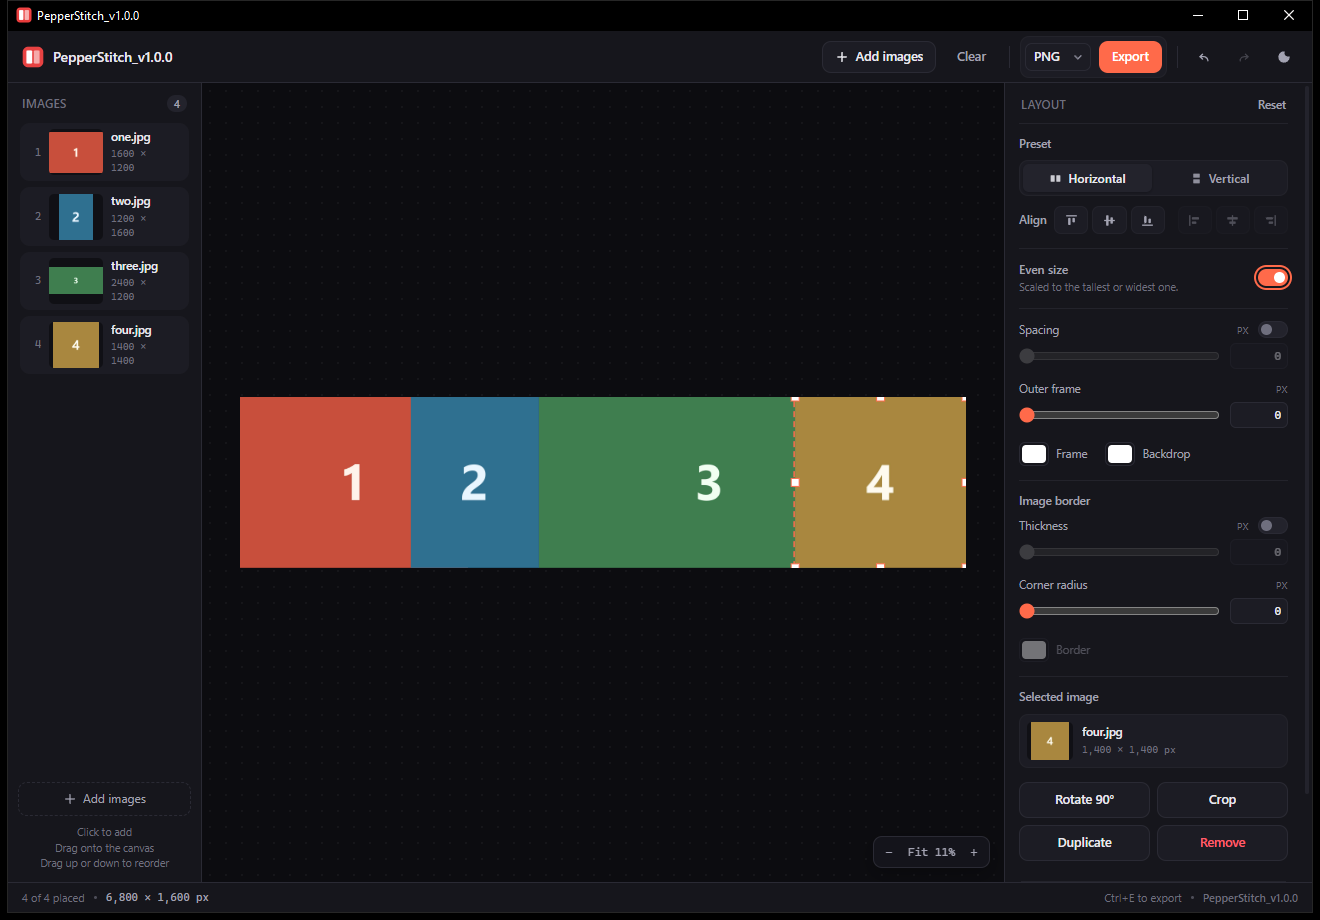
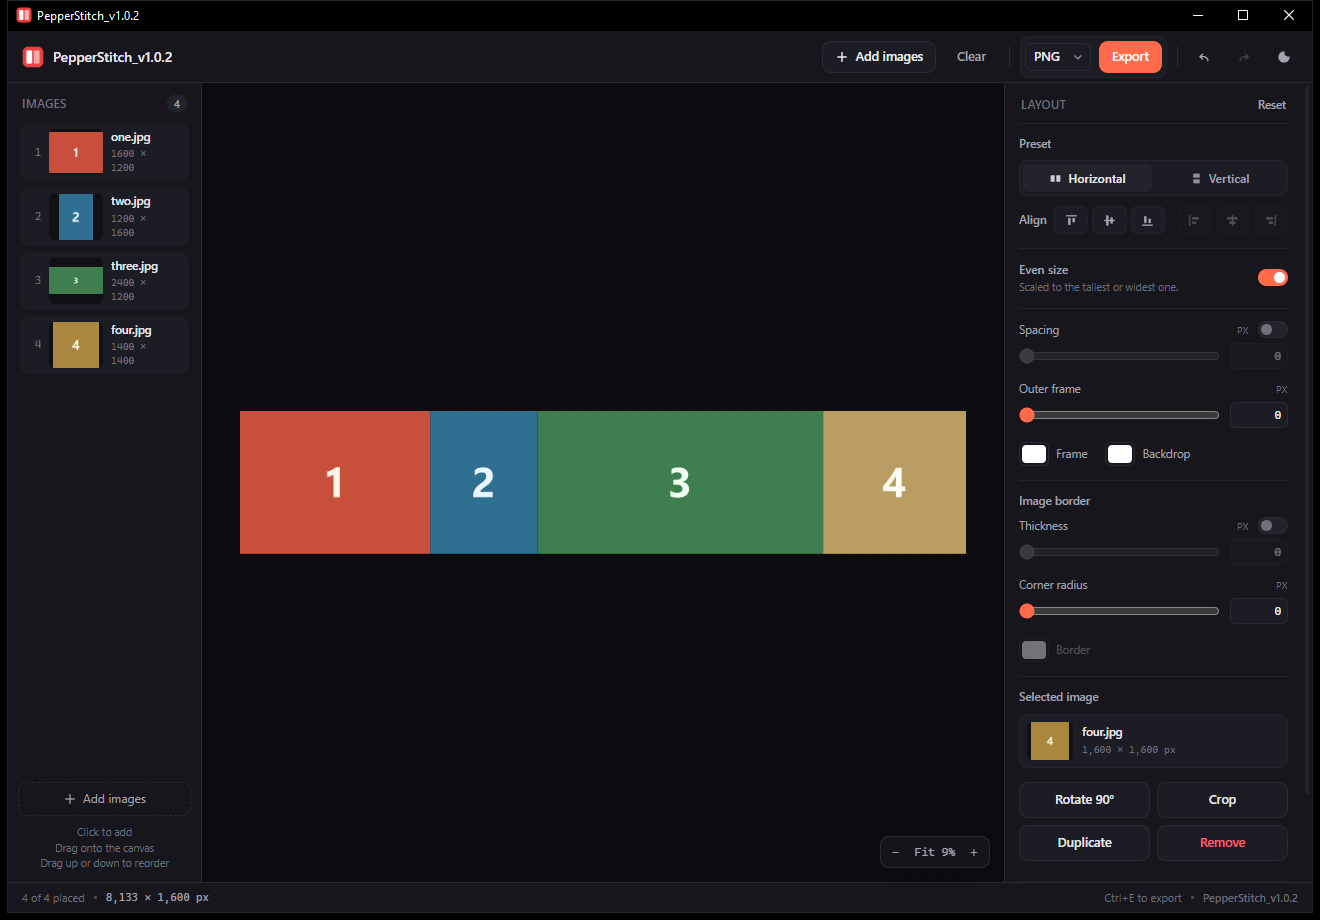
Mark the selection by lighting the picture, not by outlining it
The dashed outline and the eight white handles sat over the picture and got in
the way of looking at it.  The picture itself is washed with white instead: the
selected one at SELECTED_VEIL, the one under the pointer at HOVER_VEIL, inside
the picture's own clip so rounding is respected and a border ring is left
alone.

The handles are still there to grab - the hit areas are unchanged and the
resize cursor still appears at the edges - they are simply not drawn.  The crop
frame keeps its own frame and handles, since it is a different mode.

The screenshot is regenerated for 1.0.2.

diff --git a/assets/app.js b/assets/app.js
@@ -955,7 +955,7 @@ function paintRing(ctx, cell, border) {
   ctx.fill();
 }
 
-function paintPicture(ctx, cell, bitmap) {
+function paintPicture(ctx, cell, bitmap, veil = 0) {
   const radius = Math.max(0, Number(state.radius) || 0);
 
   ctx.save();
@@ -963,7 +963,42 @@ function paintPicture(ctx, cell, bitmap) {
   ctx.clip();
 
   drawFitted(ctx, bitmap, cell);
+
+  // The selection and the pointer are shown by lighting the picture itself
+  // rather than by drawing furniture around it: a wash of white over the
+  // picture's own pixels, inside the same clip, so a rounded picture is lit to
+  // its corners and a border ring is left alone.
+  if (veil > 0) {
+    ctx.fillStyle = `rgba(255, 255, 255, ${veil})`;
+    ctx.fillRect(cell.cx, cell.cy, cell.cw, cell.ch);
+  }
   ctx.restore();
+}
+
+// How much white the selected picture, and the one under the pointer, are
+// washed with.  A button lightens under the pointer for the same reason: it
+// says what is live without putting anything in front of the picture.
+const SELECTED_VEIL = 0.18;
+const HOVER_VEIL = 0.07;
+
+let hoverItemId = null;   // the picture under the pointer, if any
+
+// The pointer lights the picture it is over, so a click has something to aim
+// at.  Only a change redraws: a pointermove that stays over the same picture
+// costs nothing.
+function setHovered(id) {
+  if (hoverItemId === id) return;
+  hoverItemId = id;
+  scheduleRender();
+}
+
+function veilFor(item) {
+  // While a crop frame is up it is the selection, so the light goes with the
+  // outline it replaced.
+  if (cropEdit) return 0;
+  if (item.id === state.selectedItemId) return SELECTED_VEIL;
+  if (item.id === hoverItemId) return HOVER_VEIL;
+  return 0;
 }
 
 // The picture fills its own cell: a cell is given the picture's shape when it
@@ -1019,54 +1054,6 @@ function paintBackground(ctx, layout, scale, opaque = false) {
   if (!opaque) {
     ctx.clearRect(layout.outer, layout.outer,
                   layout.width - layout.outer * 2, layout.height - layout.outer * 2);
-  }
-  ctx.restore();
-}
-
-// A dashed outline around the selected picture, with the eight handles that
-// size it, drawn over the preview only.
-function paintSelection(ctx, layout, scale) {
-  if (cropEdit) return;   // the crop frame is the selection while it is up
-  const item = state.items.find((candidate) => candidate.id === state.selectedItemId);
-  if (!item) return;
-  const cell = layout.cells.find((candidate) => candidate.item === item);
-  if (!cell) return;
-
-  const accent = getComputedStyle(document.documentElement)
-    .getPropertyValue('--accent').trim() || '#4c9ffe';
-
-  ctx.save();
-  ctx.scale(scale, scale);
-  ctx.strokeStyle = accent;
-  ctx.lineWidth = 1.5 / scale;
-  ctx.setLineDash([6 / scale, 4 / scale]);
-  ctx.strokeRect(
-    cell.x - 1 / scale,
-    cell.y - 1 / scale,
-    cell.w + 2 / scale,
-    cell.h + 2 / scale,
-  );
-
-  // The handles sit on the picture's own rectangle rather than on the cell: the
-  // ring is drawn outside the picture and is not what a drag here sizes.  Solid
-  // and square, so they read as something to grab against the dashed outline.
-  const picture = pictureRect(cell);
-  const size = HANDLE_SIZE_SCREEN_PX / scale;
-  ctx.setLineDash([]);
-  ctx.fillStyle = '#ffffff';
-  ctx.strokeStyle = accent;
-  ctx.lineWidth = 1 / scale;
-  for (const name of HANDLES) {
-    const hx = name.includes('w') ? picture.x
-      : name.includes('e') ? picture.x + picture.w
-        : picture.x + picture.w / 2;
-    const hy = name.includes('n') ? picture.y
-      : name.includes('s') ? picture.y + picture.h
-        : picture.y + picture.h / 2;
-    ctx.beginPath();
-    ctx.rect(hx - size / 2, hy - size / 2, size, size);
-    ctx.fill();
-    ctx.stroke();
   }
   ctx.restore();
 }
@@ -1769,11 +1756,10 @@ function render() {
     if (!cell.source || !cell.source.bitmap) continue;
     context.save();
     context.scale(renderScale, renderScale);
-    paintPicture(context, cell, cell.source.bitmap);
+    paintPicture(context, cell, cell.source.bitmap, veilFor(cell.item));
     context.restore();
   }
 
-  paintSelection(context, layout, renderScale);
   paintCrop(context, layout, renderScale);
 
   updateStatus(layout);
@@ -2163,7 +2149,6 @@ function updateSelectionPanel() {
 
 const SNAP_SCREEN_PX = 9;
 const RESIZE_HANDLE_SCREEN_PX = 11;   // how close to a handle counts as on it
-const HANDLE_SIZE_SCREEN_PX = 8;      // the square drawn at each edge and corner
 
 // Pointer position in canvas coordinates (output pixels, before the outer mat).
 function layoutPoint(clientX, clientY) {
@@ -2515,10 +2500,15 @@ function bindCanvas() {
       : null;
     if (handle) {
       els.canvas.style.cursor = resizeCursor(handle);
+      setHovered(state.selectedItemId);
       return;
     }
-    els.canvas.style.cursor = itemAt(layout, x, y) ? 'grab' : 'default';
+    const item = itemAt(layout, x, y);
+    els.canvas.style.cursor = item ? 'grab' : 'default';
+    setHovered(item ? item.id : null);
   });
+
+  els.canvas.addEventListener('pointerleave', () => setHovered(null));
 
   els.canvas.addEventListener('contextmenu', (event) => {
     event.preventDefault();

diff --git a/AGENTS.md b/AGENTS.md
@@ -164,8 +164,11 @@ pointer; the view returns to `'fit'` 600 ms after the last notch. Ctrl+wheel is
 still a zoom, wherever the pointer is, and a wheel over empty stage scrolls as
 it always did.
 
-The selected picture also carries eight handles, and pulling one sizes it
-(`startResize`, `resizePointerMove`). Every gesture keeps the picture's own
+The selected picture answers to eight handles, and pulling one sizes it
+(`startResize`, `resizePointerMove`). They are not drawn — the picture is lit
+instead — so the hit areas are the picture's own edges and corners, and the
+cursor is what says which one the pointer is on. Every gesture keeps the
+picture's own
 ratio: a corner follows the pointer along the diagonal — the two answers are
 averaged, so neither axis wins the tug of war the ratio sets up — and an edge
 drag takes the other side with it, centred on the edge that is not moving. The
@@ -177,7 +180,7 @@ one edge at a time: a neighbour's two
 edges, the two positions that leave `border + spacing`, and the canvas edge at
 `border`. Because the anchor does not move, a snap changes the size rather than
 the placement. `handleAt()` is shared with the crop frame; only the selected
-picture has handles, so a drag anywhere else still moves.
+picture answers to it, so a drag anywhere else still moves.
 
 The six align buttons under the preset (`alignAll`) are an action on the
 composition, like a preset: top, middle and bottom move every picture to the
@@ -225,10 +228,11 @@ source rectangle from `cell.crop` as fractions, so the same call crops the
 1800 px preview bitmap and the full-resolution one alike.
 The ring's outer radius is the corner radius plus its own thickness, except at
 radius 0 where it stays square: a picture with no rounding does not get rounded
-border corners. `paintSelection` adds a dashed outline around the selected cell
-and the eight resize handles on the picture's own rectangle — the ring outside
-it is not what a drag there sizes — in the preview only, and steps aside while a
-crop frame is up.
+border corners. Nothing is drawn over the selected picture: `paintPicture` takes
+a veil, and `veilFor()` gives the selected picture `SELECTED_VEIL` and the one
+under the pointer `HOVER_VEIL`, painted inside the picture's own clip. The veil
+is a preview argument only — export passes none — and `veilFor()` returns zero
+while a crop frame is up.
 
 ## Cropping
 
@@ -349,7 +353,7 @@ Enter or Escape.
 
 ## The name and the icon
 
-`AppDisplayName()` in `main.cpp` is the versioned name (`PepperStitch_v1.0.1`):
+`AppDisplayName()` in `main.cpp` is the versioned name (`PepperStitch_v<version>`):
 it titles the window, and the page sets its own title from the `?v=` the host
 appends, so the two agree and the title handler does not print the name twice.
 The header brand and the status bar read the same string from `setVersion()`.

diff --git a/README.md b/README.md
@@ -53,11 +53,12 @@ editor.
   composition stays where you put it. This switches Even size off, since the
   pictures no longer share an edge; turning it back on makes them even again.
   <kbd>Ctrl</kbd>+wheel still zooms the preview.
-- **Resize with the handles.** The selected picture carries eight handles. Drag
-  one and it grows or shrinks about the corner or edge opposite, keeping its own
-  proportions; the edge you are pulling snaps to the other pictures, so a
-  resized picture can be made to meet its neighbour exactly. Hold
-  <kbd>Shift</kbd> while pulling a handle and the snap steps aside.
+- **Selection is a highlight.** The picture under the pointer lightens, and the
+  selected one stays lit — nothing is drawn over the picture, so what you see is
+  the picture. Drag near an edge or a corner and it sizes, about the opposite
+  edge or corner, keeping its own proportions; the edge you are pulling snaps to
+  the other pictures, so a resized picture can be made to meet its neighbour
+  exactly. Hold <kbd>Shift</kbd> while pulling and the snap steps aside.
 - **Crop a picture.** Select one and press **Crop** (or <kbd>C</kbd>), drag a
   frame over the part to keep, then press <kbd>Enter</kbd> — the picture takes
   the crop's shape and keeps its place on the canvas. Pull the handles to adjust
@@ -91,7 +92,7 @@ Pictures arrive by drop, by **Add images** / <kbd>Ctrl</kbd>+<kbd>O</kbd>, by
 paste (<kbd>Ctrl</kbd>+<kbd>V</kbd>), or by passing them on the command line:
 
 ```
-PepperStitch_v1.0.1.exe photo1.jpg photo2.jpg photo3.jpg
+PepperStitch_v<version>.exe photo1.jpg photo2.jpg photo3.jpg
 ```
 
 A drop is area-aware: onto the library it only adds pictures there, onto the
@@ -148,14 +149,14 @@ build.bat --debug             debug build (never bumps)
 build.bat --clean             delete the build tree first
 ```
 
-The result is `dist\PepperStitch_v1.0.1.exe`, a single file of about 800 kB. The
+The result is `dist\PepperStitch_v<version>.exe`, a single file of about 800 kB. The
 version number lives in `project(PepperStitch VERSION ...)` in `CMakeLists.txt`,
 and `build.bat` moves the patch on by itself when a file under `src/` or
 `assets/` has changed since the last build, so a build cannot quietly carry a
 number that is already published. `--same` rebuilds without bumping;
 `--version` sets it outright, which is how a minor or major release is made.
 That one number names the executable, fills in the version resource, and shows
-up as `PepperStitch_v1.0.1` in the title bar and in the app's own header.
+up as `PepperStitch_v<version>` in the title bar and in the app's own header.
 Exported pictures keep the plain name.
 
 The interface is compiled into the executable as a resource, not shipped beside
